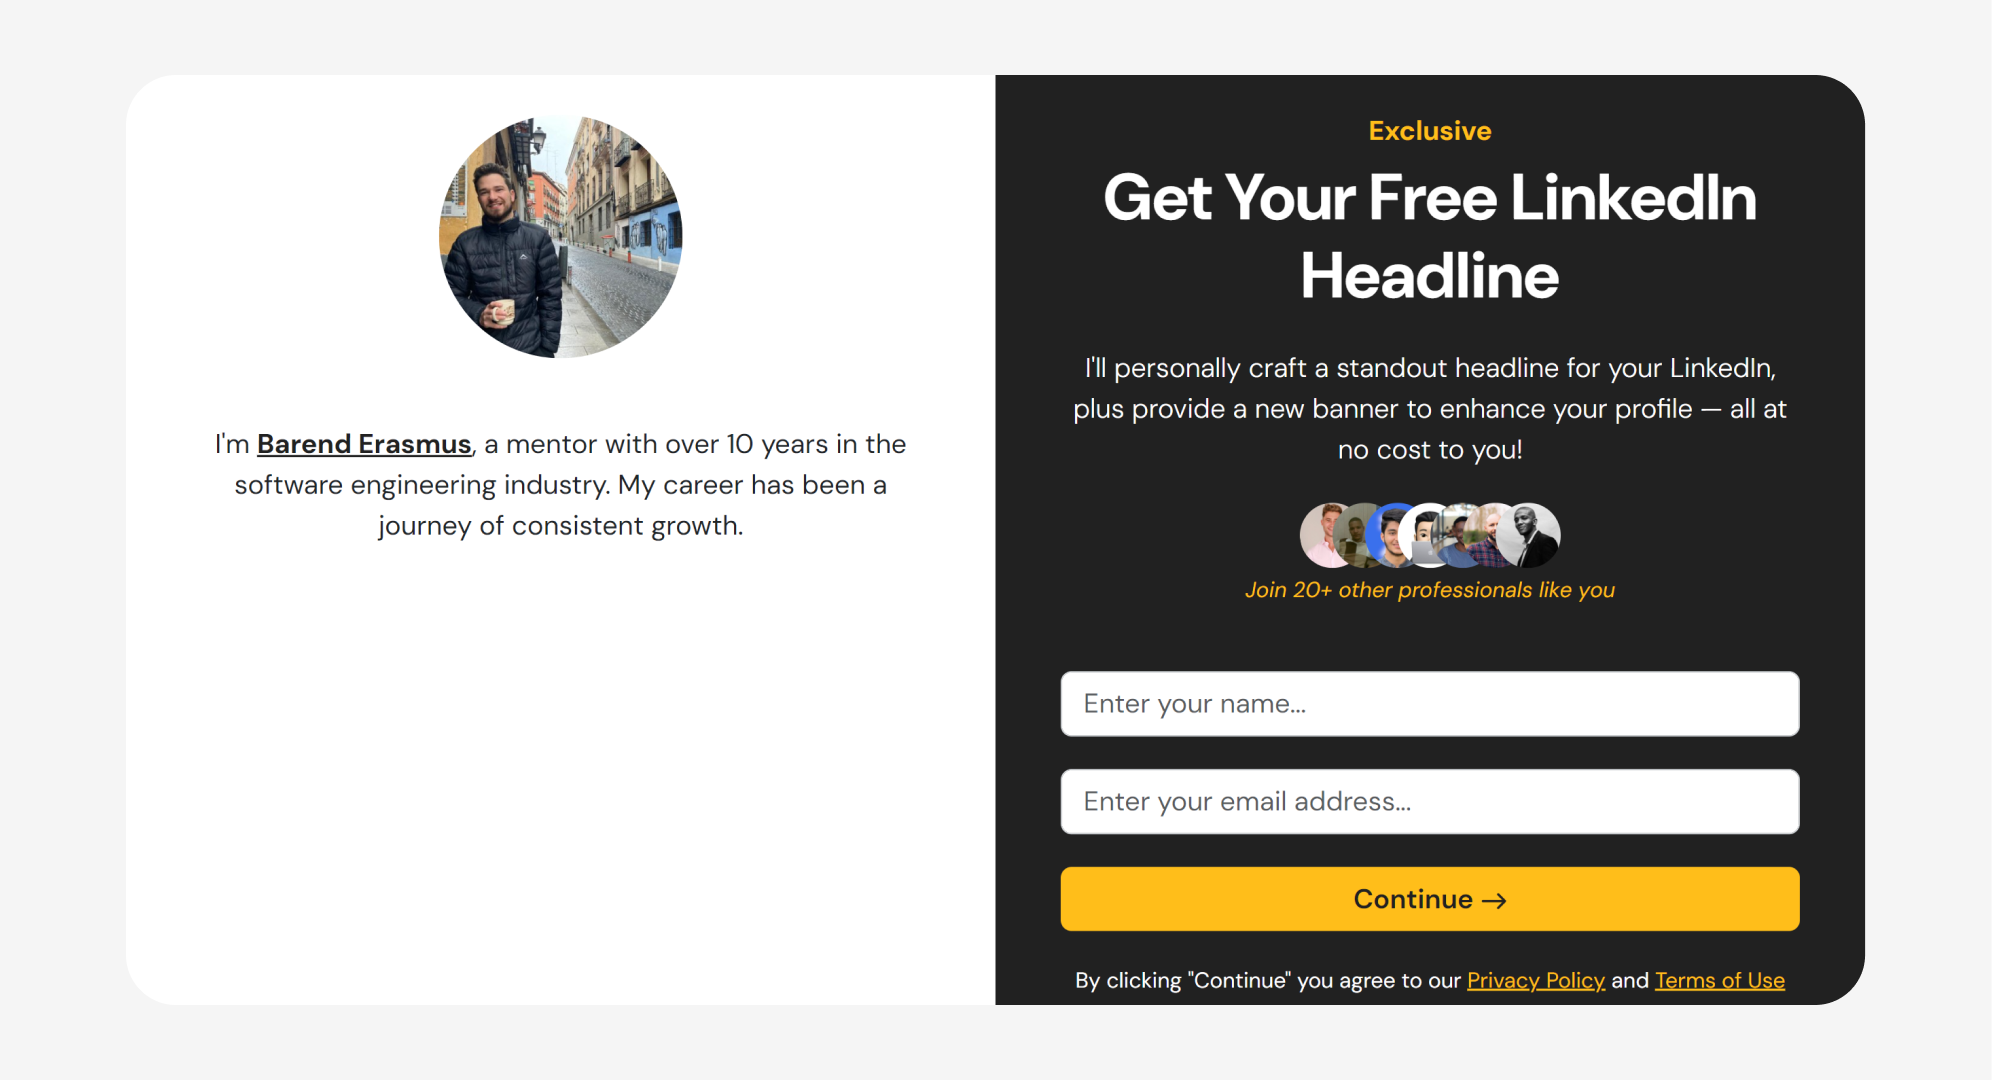
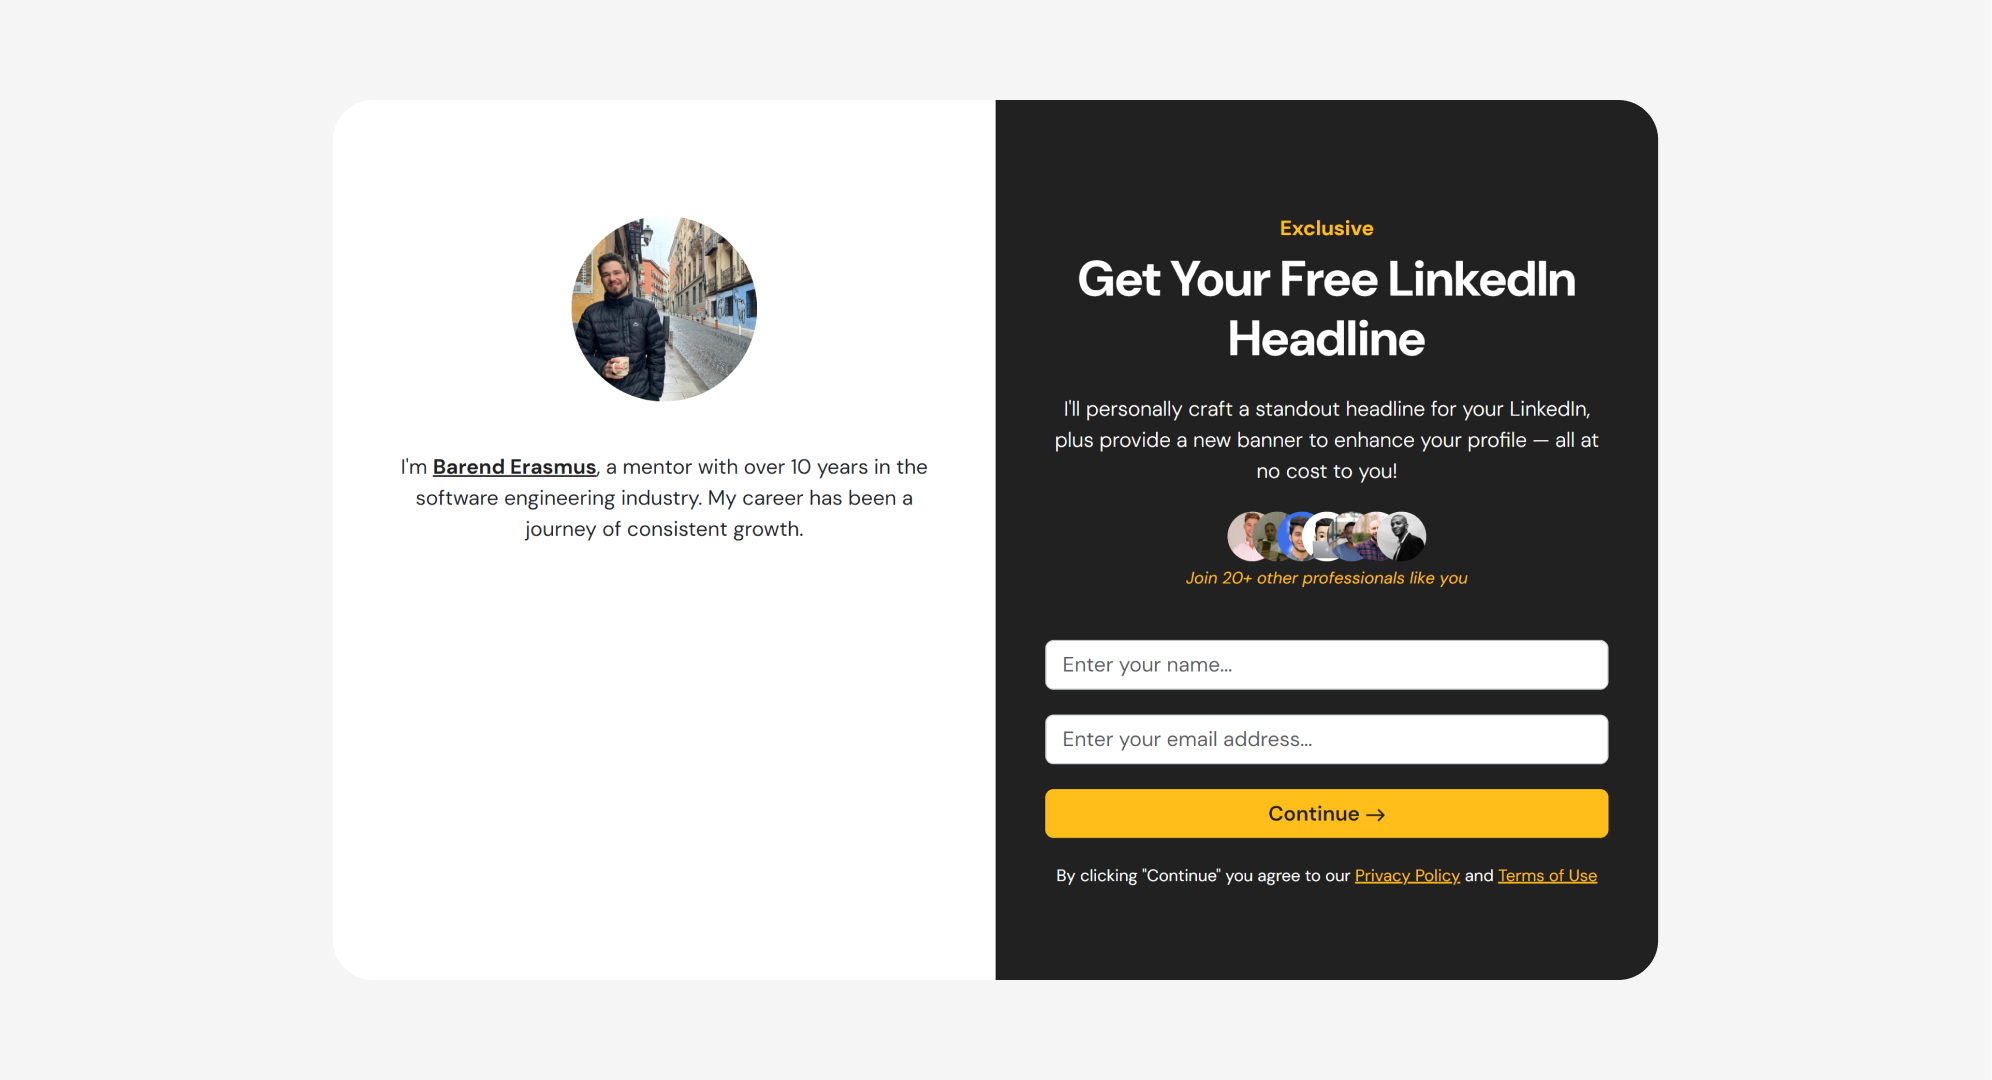
update

Changed region(s): [[0.498, 0.0611, 0.9337, 0.9472], [0.2179, 0.0917, 0.4046, 0.3667], [0.0934, 0.3972, 0.4669, 0.5194]]

diff --git a/app/free-linkedin-headline/layout.tsx b/app/free-linkedin-headline/layout.tsx
@@ -12,7 +12,7 @@ export const metadata: Metadata = {
     description:
       "A LinkedIn headline is the section at the top of a LinkedIn user's profile where they describe what they do in 220 characters or less. This brief description appears next to the user's name in search results. It should entice readers to click the profile to learn more about the user's experience and background.",
     images: [
-      `https://untitledpages.co/images/free-linkedin-headline/open-graph-image.png?v=1`,
+      `https://untitledpages.co/images/free-linkedin-headline/open-graph-image.png?v=2`,
     ],
     siteName: "Untitled Pages",
     title: "Free LinkedIn Headline | Untitled Pages",

diff --git a/app/layout.tsx b/app/layout.tsx
@@ -12,7 +12,7 @@ export const metadata: Metadata = {
     type: "website",
     description:
       "Grab your chance to be personally mentored by me. Reserve your spot on my mentorship waitlist today and start your transformative journey in software engineering.",
-    images: [`https://untitledpages.co/images/open-graph-image.png?v=1`],
+    images: [`https://untitledpages.co/images/open-graph-image.png?v=2`],
     siteName: "Untitled Pages",
     title: "The 1-on-1 Software Engineering Mentorship! | Untitled Pages",
     url: `https://untitledpages.co`,
